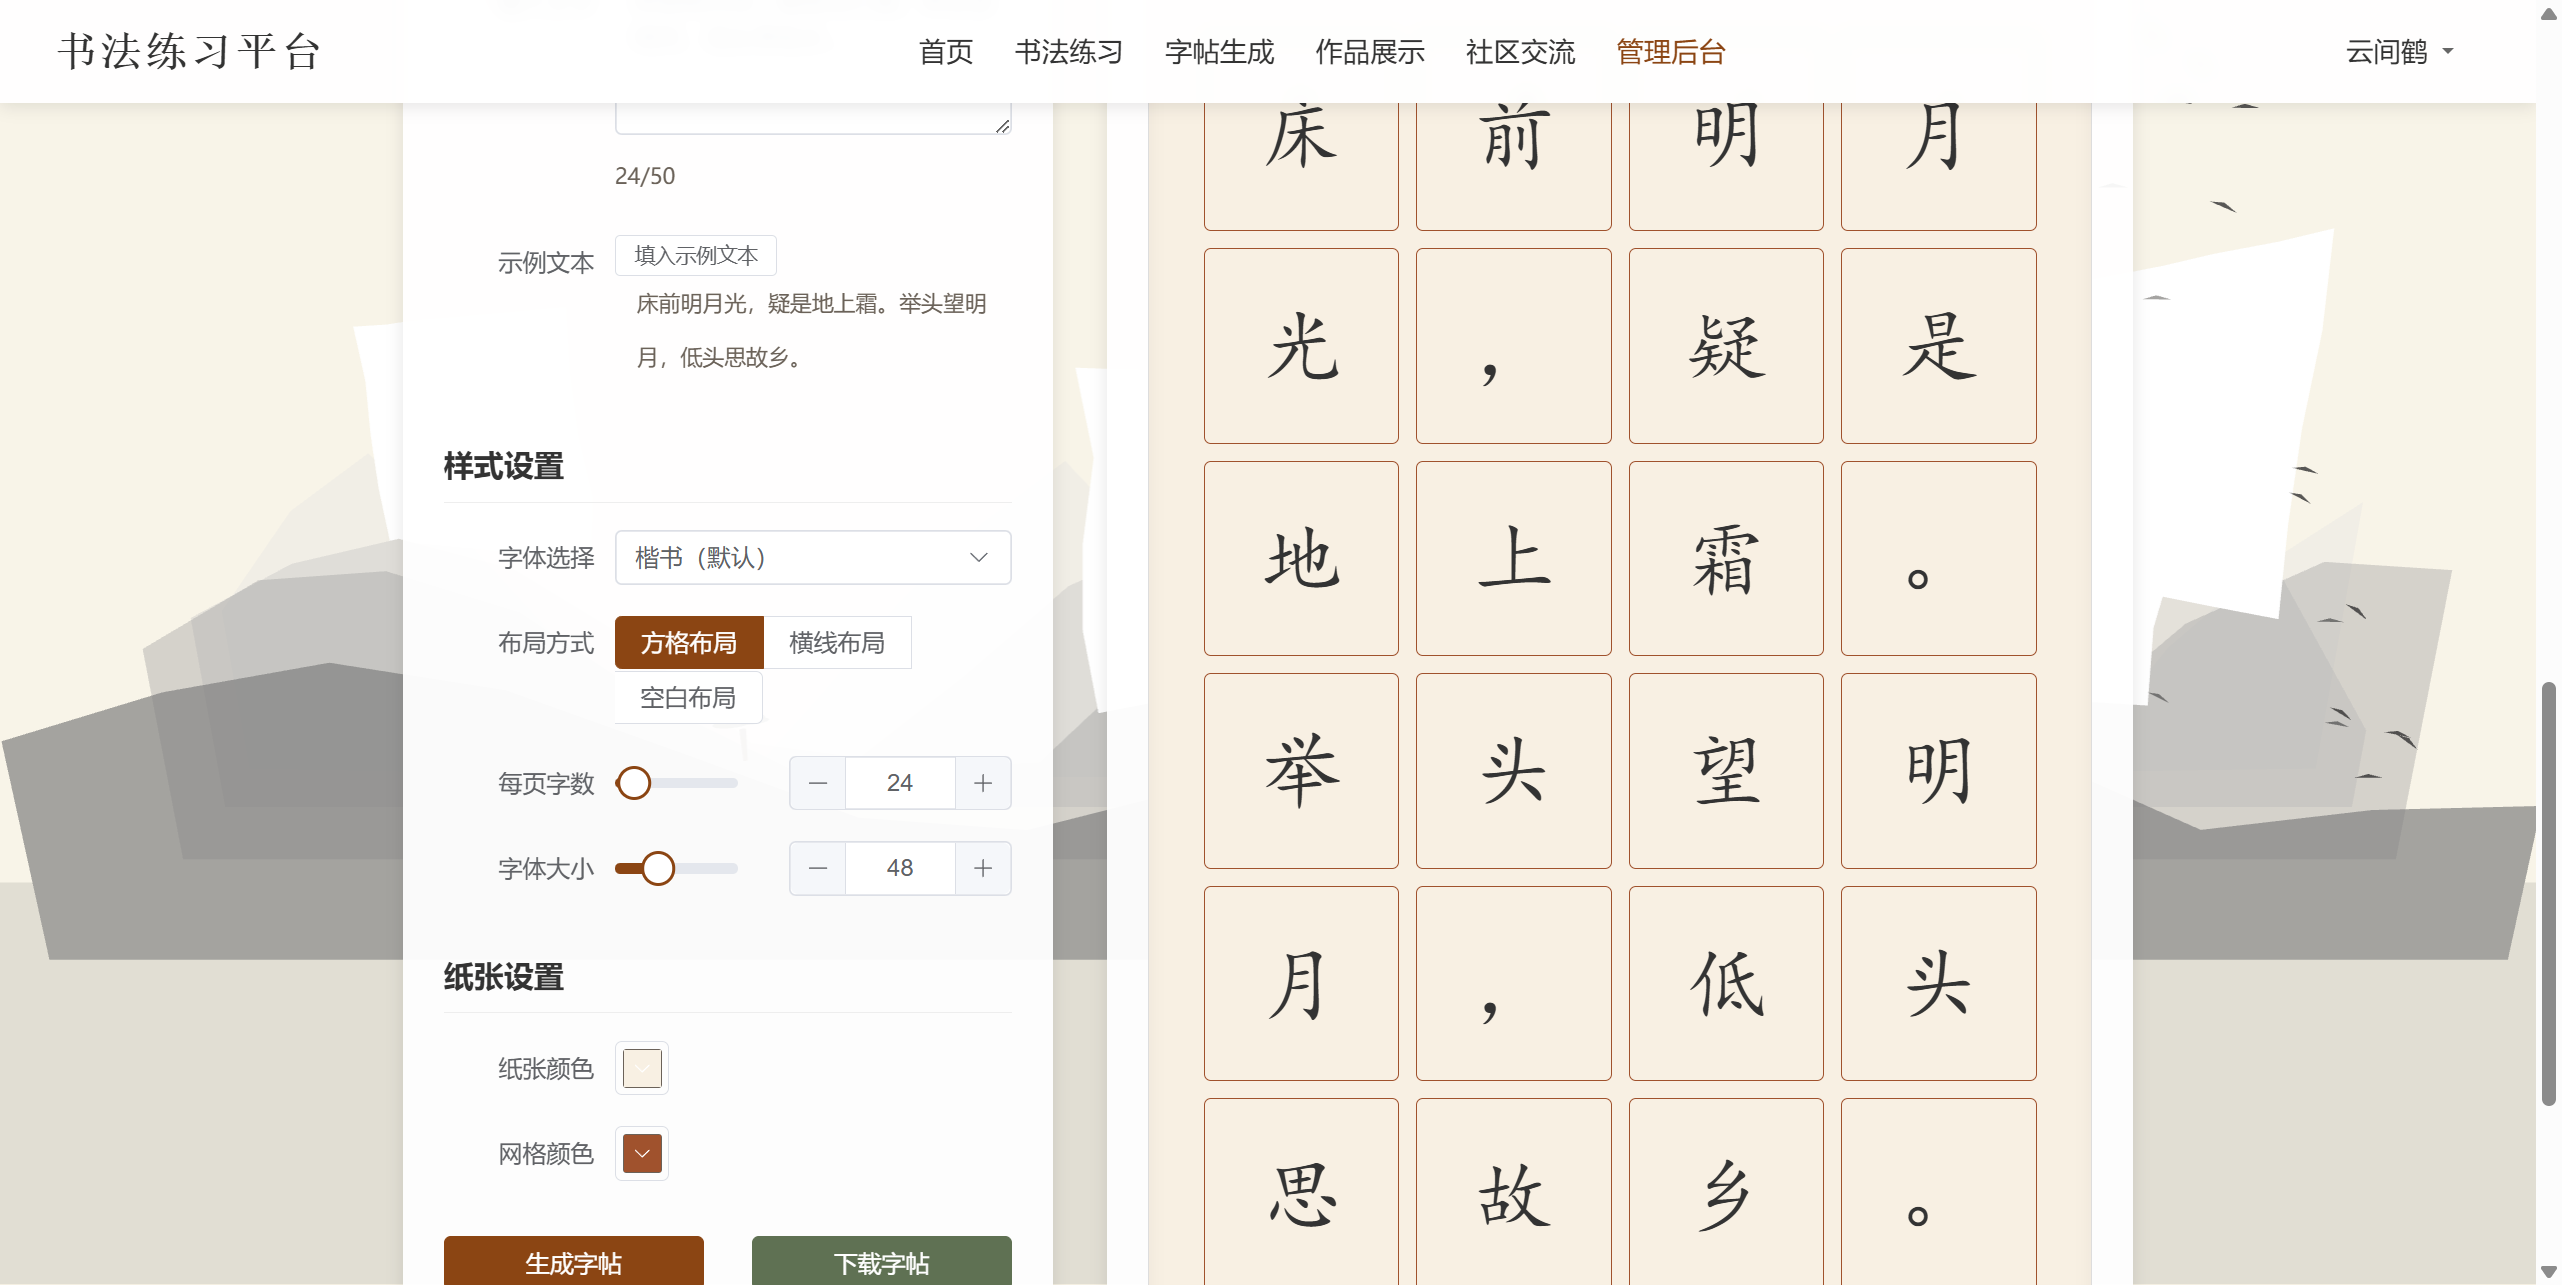
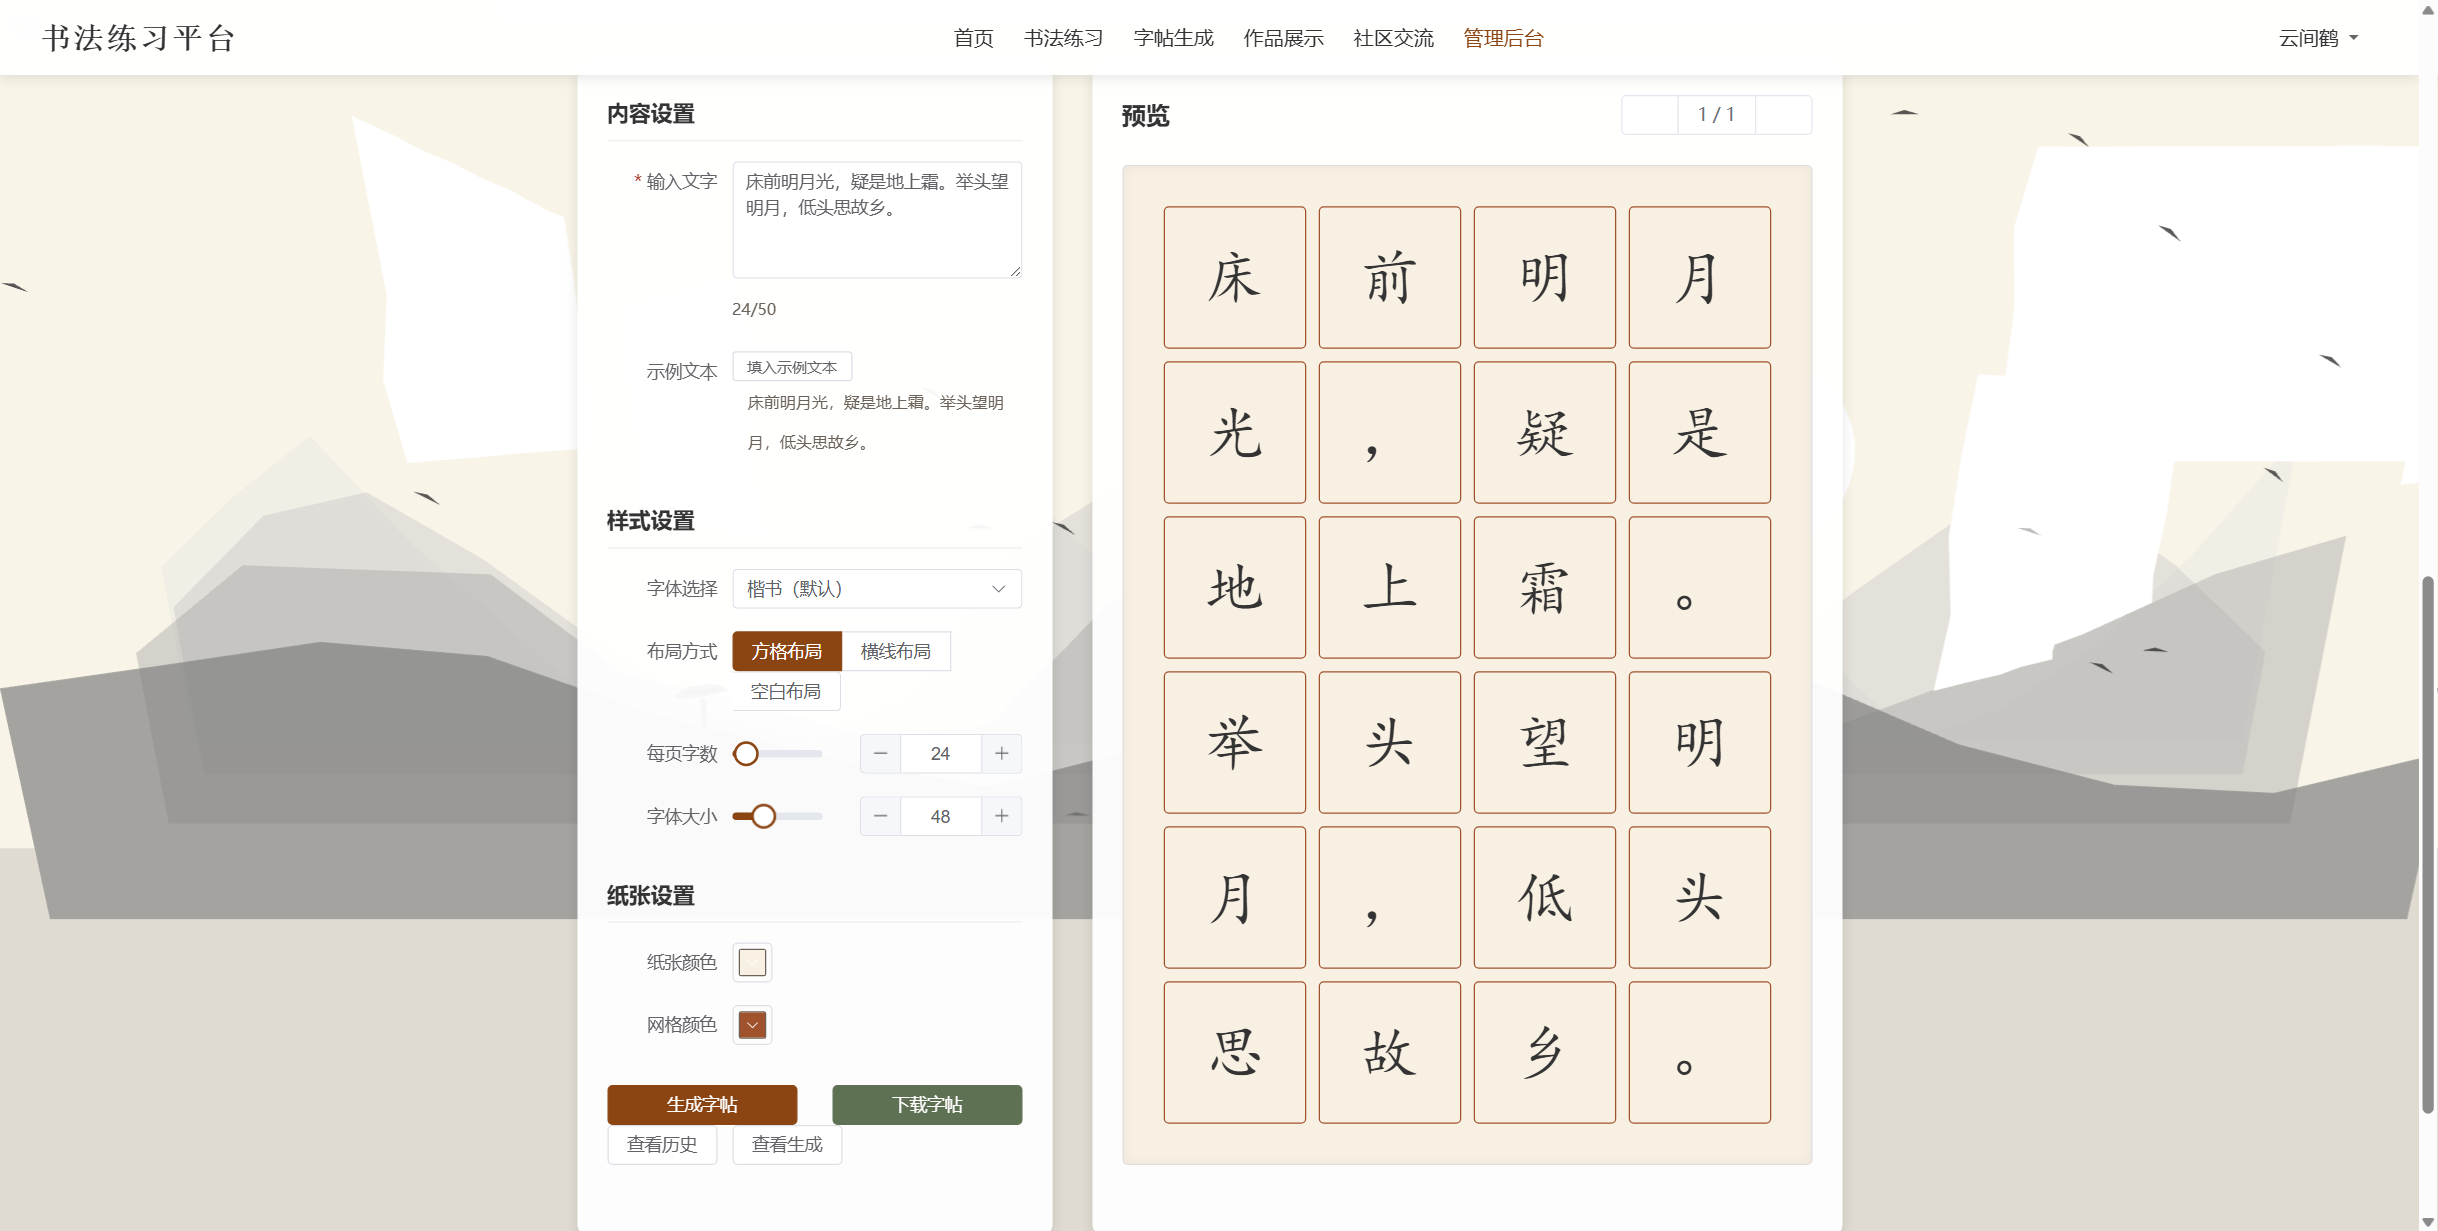
docs: 重写 README，重新截取真机配图

diff --git a/README.md b/README.md
@@ -14,7 +14,7 @@
 [![Redis](https://img.shields.io/badge/Redis-6%2B-d82c20?style=flat-square)](https://redis.io/)
 [![License](https://img.shields.io/badge/license-Apache%202.0-8B4513?style=flat-square)](LICENSE)
 
-[快速开始](#-快速开始) · [功能特性](#-功能特性) · [界面预览](#-界面预览) · [技术栈](#-技术栈)
+[功能特性](#-功能特性) · [界面预览](#-界面预览) · [技术栈](#-技术栈) · [快速开始](#-快速开始)
 
 </div>
 
@@ -22,19 +22,19 @@
 
 ## ✨ 功能特性
 
-**🖌 毛笔练习** — 基于 fabric.js 的手写画布，笔刷大小 / 颜色 / 硬度可调，笔画带真实的提按粗细变化；宣纸底色、米字格 / 方格 / 横线三种格线随时切换；写完可一键存为作品。
+**🖌 毛笔练习** — 基于 fabric.js 的手写画布，笔刷大小 / 颜色 / 硬度可调，笔画带真实的提按粗细变化；宣纸底色配米字格 / 方格 / 横线三种格线，写完一键存为作品。
 
-**📄 字帖生成** — 输入任意文字（或直接填入《静夜思》示例），选字体、布局、字号与纸张配色，实时生成方格 / 横线 / 空白三种版式的字帖，支持下载与翻页；内置 3 个精选字帖（楷书基础 / 行书技法 / 草书鉴赏）可记录练习时长与字数。
+**📄 字帖生成** — 输入任意文字，选字体、布局、字号与纸张配色，实时生成方格 / 横线 / 空白三种版式，可下载与翻页；内置 3 个精选字帖，记录练习时长与字数。
 
-**🖼 作品展示** — 公开画廊按分页展示已审核通过的作品，支持标题 / 作者检索与排序；作者可上传、编辑、删除自己的作品，并查看浏览量与评论。
+**🖼 作品展示** — 公开画廊按分页展示已通过审核的作品，支持按标题 / 作者检索与排序；作者可上传、编辑、删除自己的作品，并查看浏览量与评论。
 
-**💬 社区交流** — 讨论区支持发帖、回复、点赞、置顶与精华标记，按分类和标签聚合；有「热门讨论」「本页活跃用户」「热门标签」侧栏，另有作品评论与后台审核。
+**💬 社区交流** — 讨论区支持发帖、回复、点赞、置顶与精华标记，按分类和标签聚合；附带热门讨论、活跃用户、热门标签侧栏，以及作品评论与后台审核。
 
-**👤 个人中心** — 修改资料与头像、查看自己的作品与练习记录，练习记录带时长 / 字数 / 难度统计。
+**👤 个人中心** — 修改资料与头像，查看自己的作品与练习记录，记录带时长 / 字数 / 难度统计。
 
-**🛡 管理后台** — 作品审核（**待审队列**与已发布作品分开）、审核记录留痕、评论管理、用户查询与数据分析看板；审核结论实时回写作品状态。
+**🛡 管理后台** — 作品审核分「待审队列」与「已发布作品」，审核结论实时回写作品状态；另有审核记录、评论管理、用户查询与数据分析看板。
 
-**🔐 安全与契约** — JWT 双令牌（access + refresh）+ Redis 黑名单，角色变更即时生效；前后端以一份 OpenAPI 3.1 契约为准，构建期自动校验零漂移。
+**🔐 安全与契约** — JWT 双令牌（access + refresh）配合 Redis 黑名单，角色变更即时生效；前后端以一份 OpenAPI 3.1 契约为准，任何一端的改动都会在构建期被拦下。
 
 ---
 
@@ -74,7 +74,8 @@
 | **前端** | Vue 3.5 · Vite 7 · Vue Router 4 · Pinia 3 · Element Plus 2.11 · fabric.js 6 · Three.js |
 | **后端** | Spring Boot 3.2.5 · Spring Security · Spring Data JPA（Jakarta）· JWT（jjwt）· MapStruct · Lombok |
 | **存储** | MySQL 8.0（用户 / 作品 / 社区 / 审核）· Redis 6+（令牌黑名单、缓存）· 本地文件（图片、头像） |
-| **工程** | OpenAPI 3.1 契约 + 自研一致性检查器 · JUnit 5 + MockMvc 契约测试 · ESLint + Prettier |
+| **契约** | OpenAPI 3.1 单一真相源 · 54 个端点 · 自研一致性检查器 · 人读版见 [`docs/api-contract.md`](docs/api-contract.md) |
+| **工程** | JUnit 5 + MockMvc 契约测试（136 项）· ESLint + Prettier · Maven 3.9 / Node 20.19+ |
 
 ---
 
@@ -98,21 +99,19 @@ CREATE DATABASE calligraphy_practice DEFAULT CHARACTER SET utf8mb4 COLLATE utf8m
 
 ### 3. 配置密钥（必做）
 
-**仓库里不含任何真实密钥**，应用的 JWT 签名密钥一旦泄露，任何人都能伪造管理员令牌。
+**仓库里不含任何真实密钥** —— JWT 签名密钥一旦泄露，任何人都能伪造管理员令牌。
 
 ```powershell
 cd SpringBoot-Platform
 Copy-Item 'config\local-secrets.properties.example' 'config\local-secrets.properties'
 ```
 
-编辑 `config\local-secrets.properties`，填两项：
+编辑 `config\local-secrets.properties`，填两项（该文件已被 `.gitignore` 忽略，不会进版本库）：
 
 ```properties
 JWT_SECRET=<至少 32 字符，建议 openssl rand -hex 32>
 DB_PASSWORD=<你的 MySQL 密码>
 ```
-
-该文件已被 `.gitignore` 忽略，不会进版本库。
 
 ### 4. 启动后端（8083）
 
@@ -121,6 +120,8 @@ cd SpringBoot-Platform
 .\run-local.ps1              # 启动；脚本会把上面的密钥读进环境变量注入进程（从不回显）
 .\run-local.ps1 -Task test   # 跑测试
 ```
+
+> 测试跑在独立的 `calligraphy_practice_test` 库上（首次会自动建库），不会动到你的开发数据。
 
 > 直接跑 `mvn spring-boot:run` 也行，但要自己先设好 `JWT_SECRET` 与 `DB_PASSWORD` 两个环境变量，否则启动会明确报错：
 > `IllegalStateException: JWT 密钥未配置`。
@@ -145,54 +146,6 @@ UPDATE users SET role='SUPER_ADMIN' WHERE username='你的用户名';
 ```
 
 JWT 过滤器每次请求都从库里重读角色，**提权后立即生效，无需重新登录**。
-
----
-
-## 📁 目录结构
-
-```
-.
-├── Practice-Platform/          前端（Vue 3 + Vite）
-│   ├── openapi/contract.yaml   API 契约 —— 唯一权威，54 个 operation
-│   ├── scripts/                契约一致性检查器
-│   └── src/
-│       ├── views/              13 个业务页面
-│       ├── components/         通用组件
-│       ├── stores/             Pinia 状态
-│       ├── utils/api.js        唯一 HTTP 客户端
-│       └── router/             路由与权限守卫
-├── SpringBoot-Platform/        后端（Spring Boot 3）
-│   ├── src/main/java/com/calligraphy/platform/
-│   │   ├── controller/         HTTP 入口
-│   │   ├── service/impl/       业务实现
-│   │   ├── repository/         数据访问
-│   │   ├── model/ + entity/    JPA 实体
-│   │   ├── dto/                请求 / 响应体
-│   │   ├── security/           JWT 过滤器与鉴权
-│   │   └── exception/          统一错误处理
-│   ├── src/test/               136 项契约与单元测试
-│   ├── db/                     数据库修正脚本
-│   └── run-local.ps1           本地启动（注入密钥）
-└── docs/
-    ├── api-contract.md         人读版 API 契约
-    └── screenshots/            README 配图
-```
-
----
-
-## 📄 API 契约
-
-前后端以一份 **OpenAPI 3.1** 契约为唯一真相源，共 **54 个 operation**：
-
-```powershell
-cd Practice-Platform
-npm run contract:check          # 输出差异报告
-npm run contract:check:strict   # 任何差异都失败（构建门禁）
-```
-
-检查器会比对三处：契约里的端点、前端的调用点、后端的路由。任何一边单方面改动都会被 CI 拦下。
-
-人读版契约见 [`docs/api-contract.md`](docs/api-contract.md)。
 
 ---
 
